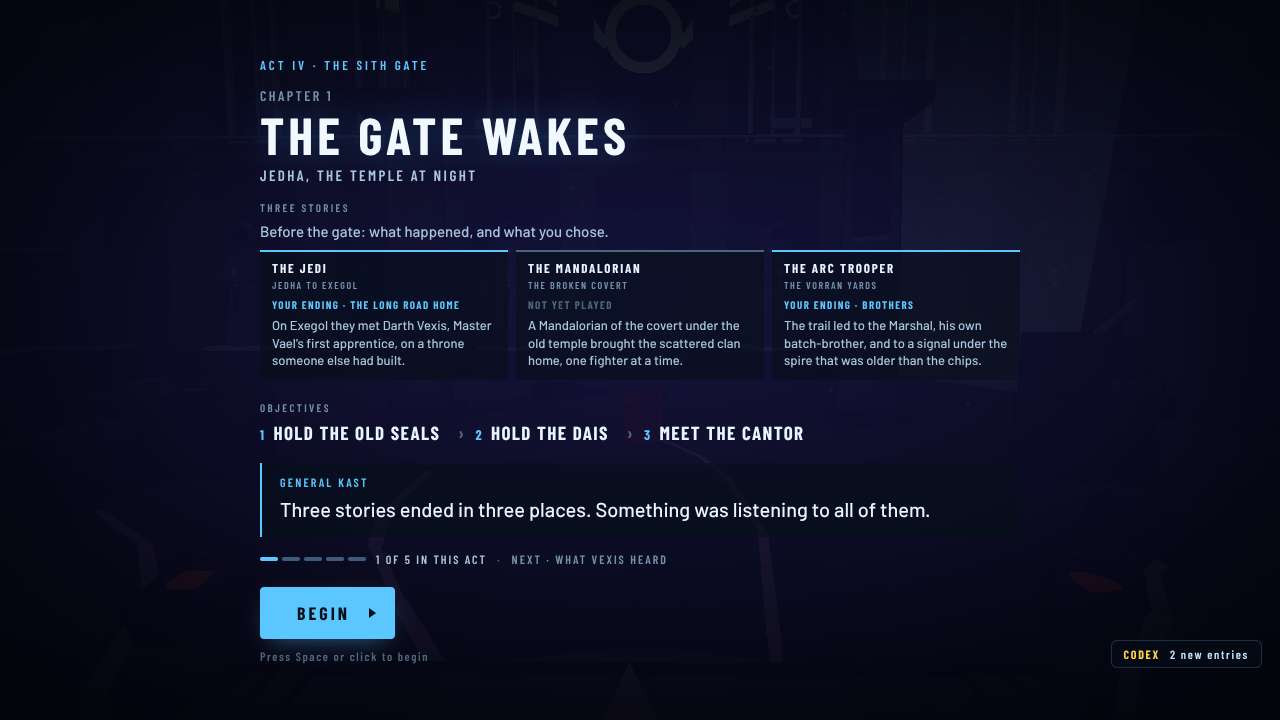
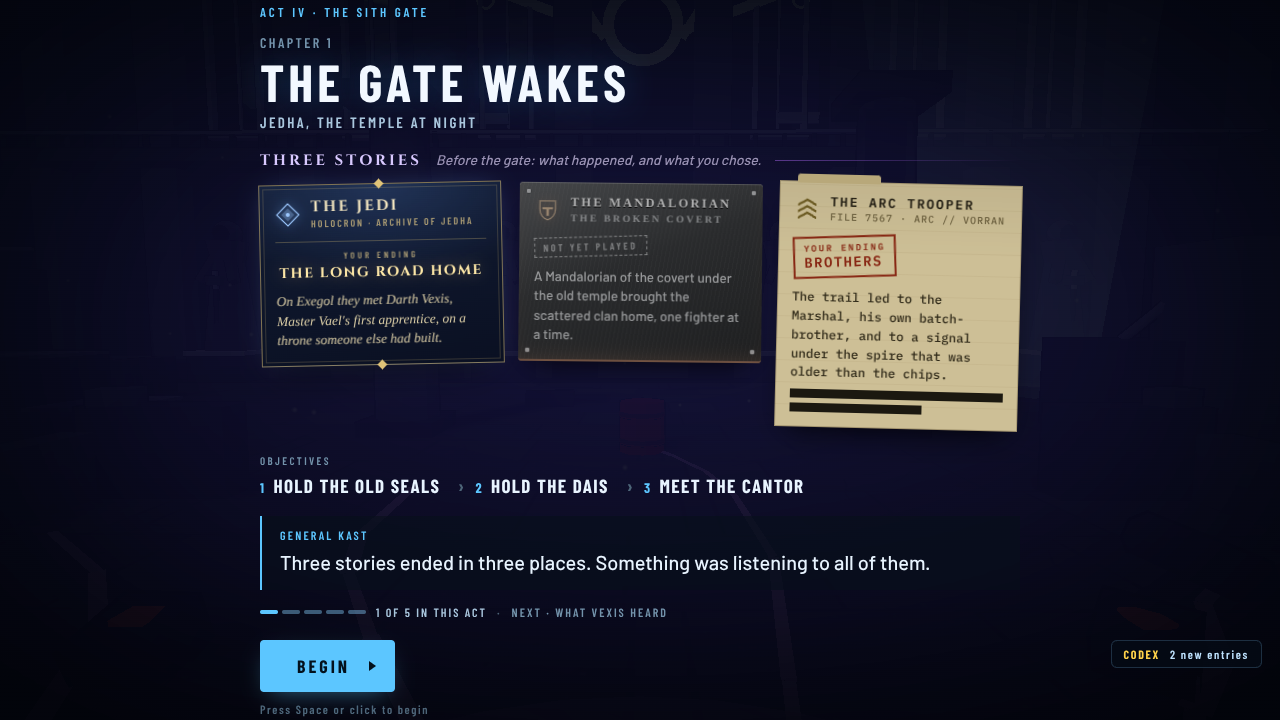
Act IV cards: hero keepsakes for the recap, a carved gate tablet for the epilogue [preview]
The recap shows each story as its hero's own object: a Jedi holocron,
a Mandalorian beskar plate and an ARC trooper dossier. The epilogue is a
carved tablet under the gate's ring, tinted by the player's lean.

Claude-Session: https://claude.ai/code/session_01GXE5t49waU1D9AjUNyCzTn

diff --git a/styles/gate.css b/styles/gate.css
@@ -1,0 +1,139 @@
+/* POWER TRIP © 2026 Caleb Zinabu. All rights reserved. See LICENSE. */
+/* ACT IV · THE SITH GATE: its recap and epilogue cards (game/gate.js gateRecapHtml, gateEpilogueHtml).
+   Not the menu's panels: each story is its own hero's keepsake, and the ending is carved in the gate's stone.
+     JEDI      a holocron page: Cinzel, warm gold ink on deep blue, a double hairline frame with diamond corners
+     MANDO     a beskar plate: brushed steel, rivets, Georgia small caps, an ember edge (the kitbench's forge family)
+     TROOPER   a field file: tan dossier paper, IBM Plex Mono, a file number, redaction bars and a rubber stamp
+     THE GATE  carved violet stone, Cinzel, the ring behind it shut or split by the choice */
+
+/* ---------------- the recap: three keepsakes on a table ---------------- */
+#chapcard .gx-recap{margin:20px 0 4px}
+#chapcard .gx-rk{display:flex;align-items:baseline;gap:14px;margin-bottom:14px}
+#chapcard .gx-rk span{font:700 15px/1 'Cinzel',Georgia,serif;letter-spacing:3px;color:#d9c9ff}
+#chapcard .gx-rk em{font:italic 500 14px/1.3 var(--font-body);color:#9a92b4}
+#chapcard .gx-rk::after{content:'';flex:1;height:1px;align-self:center;background:linear-gradient(90deg,rgba(180,107,255,.45),transparent)}
+#chapcard .gx-relics{display:grid;grid-template-columns:repeat(3,minmax(0,1fr));gap:16px;align-items:start}
+#chapcard .gx-relic{position:relative;padding:14px 15px 15px;min-height:150px;box-sizing:border-box;
+  animation:gxLay .5s cubic-bezier(.2,.8,.2,1) both;animation-delay:calc(var(--i) * 90ms)}
+@keyframes gxLay{from{opacity:0;transform:translateY(10px) rotate(var(--tilt,0deg)) scale(.97)}to{opacity:1;transform:rotate(var(--tilt,0deg))}}
+#chapcard .gx-relic header{display:flex;align-items:center;gap:10px}
+#chapcard .gx-relic header b{display:block}
+#chapcard .gx-relic header small{display:block;margin-top:3px}
+#chapcard .gx-g{display:inline-flex;flex:none;width:26px;height:26px}
+#chapcard .gx-g svg{width:100%;height:100%}
+#chapcard .gx-relic p{margin:10px 0 0}
+#chapcard .gx-end span{display:block}
+#chapcard .gx-end strong{display:block}
+
+/* JEDI · a holocron page */
+#chapcard .gx-jedi{--tilt:-1.2deg;color:#e9dcb6;
+  background:radial-gradient(120% 90% at 50% 0%,rgba(90,140,220,.22),transparent 60%),linear-gradient(170deg,#121c34,#0a1022);
+  border:1px solid rgba(225,196,120,.55);outline:1px solid rgba(225,196,120,.2);outline-offset:-5px;
+  box-shadow:0 14px 30px -14px rgba(0,0,0,.8),0 0 26px -10px rgba(120,170,255,.45)}
+#chapcard .gx-jedi::before,#chapcard .gx-jedi::after{content:'';position:absolute;width:7px;height:7px;background:#e1c478;transform:rotate(45deg);top:-4px;left:calc(50% - 4px)}
+#chapcard .gx-jedi::after{top:auto;bottom:-4px}
+#chapcard .gx-jedi .gx-g{color:#9cc8ff;filter:drop-shadow(0 0 6px rgba(120,180,255,.8))}
+#chapcard .gx-jedi header b{font:700 15px/1 'Cinzel',Georgia,serif;letter-spacing:2.4px;color:#f3e6c0}
+#chapcard .gx-jedi header small{font:600 10px/1.2 var(--font-ui);letter-spacing:2px;color:#a99a72}
+#chapcard .gx-jedi .gx-end{margin-top:12px;padding-top:9px;border-top:1px solid rgba(225,196,120,.28);text-align:center}
+#chapcard .gx-jedi .gx-end span{font:600 9px/1 var(--font-ui);letter-spacing:3px;color:#a99a72}
+#chapcard .gx-jedi .gx-end strong{margin-top:5px;font:700 14px/1.15 'Cinzel',Georgia,serif;letter-spacing:1.6px;color:#ffe9a8;text-shadow:0 0 14px rgba(255,210,120,.35)}
+#chapcard .gx-jedi p{font:italic 500 13.5px/1.45 Georgia,'Times New Roman',serif;color:#d8cba4}
+
+/* MANDO · a beskar plate */
+#chapcard .gx-mando{--tilt:.6deg;color:#d9dde2;border-radius:3px;
+  background:
+    radial-gradient(circle at 9px 9px,#c6ccd3 0 2px,#4a5058 2.5px,transparent 3.2px),radial-gradient(circle at calc(100% - 9px) 9px,#c6ccd3 0 2px,#4a5058 2.5px,transparent 3.2px),
+    radial-gradient(circle at 9px calc(100% - 9px),#c6ccd3 0 2px,#4a5058 2.5px,transparent 3.2px),radial-gradient(circle at calc(100% - 9px) calc(100% - 9px),#c6ccd3 0 2px,#4a5058 2.5px,transparent 3.2px),
+    repeating-linear-gradient(100deg,rgba(255,255,255,.035) 0 1px,transparent 1px 4px),
+    linear-gradient(160deg,#5d646d,#373c43 45%,#272b30);
+  border-bottom:2px solid #e0661e;box-shadow:inset 0 1px 0 rgba(255,255,255,.25),inset 0 -12px 20px -12px rgba(255,110,30,.35),0 14px 30px -14px rgba(0,0,0,.85)}
+#chapcard .gx-mando .gx-g{color:#ffb15a;filter:drop-shadow(0 0 5px rgba(255,120,40,.6))}
+#chapcard .gx-mando header b{font:700 12.5px/1 Georgia,'Times New Roman',serif;letter-spacing:2.2px;white-space:nowrap;color:#f1f3f5;text-shadow:0 1px 0 #000}
+#chapcard .gx-mando header small{font:600 10px/1.2 Georgia,serif;letter-spacing:2.4px;color:#b3bac2;text-transform:uppercase}
+#chapcard .gx-mando .gx-end{margin-top:12px;padding:7px 9px;background:rgba(10,12,14,.45);box-shadow:inset 0 1px 3px rgba(0,0,0,.6),0 1px 0 rgba(255,255,255,.08)}
+#chapcard .gx-mando .gx-end span{font:600 9px/1 Georgia,serif;letter-spacing:3px;color:#ffb15a}
+#chapcard .gx-mando .gx-end strong{margin-top:5px;font:700 14px/1.15 Georgia,serif;letter-spacing:2.6px;color:#fff;text-shadow:0 1px 0 #000}
+#chapcard .gx-mando p{font:500 13.5px/1.45 var(--font-body);color:#cfd4da}
+
+/* TROOPER · a field file */
+#chapcard .gx-trooper{--tilt:1.4deg;color:#2a2516;
+  background:linear-gradient(180deg,rgba(0,0,0,.06),transparent 30%),repeating-linear-gradient(0deg,rgba(80,60,20,.05) 0 1px,transparent 1px 22px),#cdbf96;
+  box-shadow:0 14px 30px -14px rgba(0,0,0,.9),inset 0 0 0 1px rgba(60,45,15,.25)}
+#chapcard .gx-trooper::before{content:'';position:absolute;top:-7px;left:18px;width:34%;height:9px;background:#b8a87a;border-radius:3px 3px 0 0}
+#chapcard .gx-trooper .gx-g{color:#6b5a22}
+#chapcard .gx-trooper header b{font:600 13px/1 'IBM Plex Mono',ui-monospace,monospace;letter-spacing:1.8px;color:#1c180e}
+#chapcard .gx-trooper header small{font:500 10px/1.2 'IBM Plex Mono',monospace;letter-spacing:1px;color:#6b5f3e}
+#chapcard .gx-trooper .gx-end{position:relative;margin-top:12px;display:inline-block;padding:5px 9px 6px;border:2px solid #a8321e;color:#a8321e;transform:rotate(-3deg);mix-blend-mode:multiply}
+#chapcard .gx-trooper .gx-end span{font:600 9px/1 'IBM Plex Mono',monospace;letter-spacing:2px}
+#chapcard .gx-trooper .gx-end strong{margin-top:3px;font:700 14px/1.1 'IBM Plex Mono',monospace;letter-spacing:1.4px}
+#chapcard .gx-trooper p{font:500 12.5px/1.5 'IBM Plex Mono',monospace;color:#2f2918}
+#chapcard .gx-redact{display:grid;gap:5px;margin-top:8px}
+#chapcard .gx-redact i{display:block;height:9px;background:#1b1810}
+#chapcard .gx-redact i:last-child{width:62%}
+
+/* a story not yet played: face down, faded, stamped */
+#chapcard .gx-relic.unplayed{filter:saturate(.35) brightness(.72);opacity:.86}
+#chapcard .gx-stamp{display:inline-block;margin-top:12px;padding:3px 8px;border:1.5px dashed currentColor;font:600 10px/1.2 var(--font-ui);letter-spacing:2.6px;opacity:.75;transform:rotate(-2deg)}
+#chapcard .gx-trooper .gx-stamp{font-family:'IBM Plex Mono',monospace;letter-spacing:1.4px}
+
+@media (max-width:640px){
+  #chapcard .gx-relics{grid-template-columns:1fr;gap:14px}
+  #chapcard .gx-relic{min-height:0;--tilt:0deg}
+  #chapcard .gx-rk{flex-wrap:wrap;gap:4px 10px}
+}
+
+/* ---------------- the epilogue: words carved in the gate ---------------- */
+#chapcard .gx-epi{position:relative;isolation:isolate;width:min(760px,100%);text-align:center;--gx:#b46bff;--glow:rgba(180,107,255,.5);animation:rise .5s var(--ease)}
+#chapcard .gx-epi.gx-lean-light{--glow:rgba(255,225,150,.55)}
+#chapcard .gx-epi.gx-lean-dark{--glow:rgba(255,60,50,.5)}
+/* the ring behind it: shut (sealed) or split with light (kept) */
+#chapcard .gx-ring{position:absolute;left:50%;top:-30px;width:420px;height:420px;margin-left:-210px;pointer-events:none;z-index:-1;opacity:.8}
+#chapcard .gx-ring i{position:absolute;inset:0;border-radius:50%;border:2px solid rgba(180,107,255,.35)}
+#chapcard .gx-ring i:nth-child(2){inset:34px;border:1px dashed rgba(180,107,255,.25);animation:gxTurn 60s linear infinite}
+#chapcard .gx-ring i:nth-child(3){inset:80px;border:0;background:radial-gradient(circle,rgba(20,10,30,.95) 55%,transparent 72%)}
+#chapcard .gx-kept .gx-ring i:nth-child(3){background:radial-gradient(circle,rgba(200,140,255,.42),rgba(90,40,140,.25) 45%,transparent 70%);animation:gxBreath 4s ease-in-out infinite}
+#chapcard .gx-sealed .gx-ring i:first-child{border-color:rgba(200,190,220,.3);box-shadow:inset 0 0 0 10px rgba(30,24,40,.6)}
+@keyframes gxTurn{to{transform:rotate(360deg)}}
+@keyframes gxBreath{50%{opacity:.6;transform:scale(.96)}}
+#chapcard .gx-kick{font:600 12px/1 var(--font-ui);letter-spacing:5px;color:#a99ac8}
+#chapcard .gx-title{margin:14px 0 0;font:700 54px/1.02 'Cinzel',Georgia,serif;letter-spacing:5px;color:#f4ecff;
+  text-shadow:0 2px 0 #0b0712,0 0 34px var(--glow)}
+#chapcard .gx-world{margin-top:10px;font:600 13px/1 var(--font-ui);letter-spacing:3.4px;color:#9a92b4}
+#chapcard .gx-world span{margin-left:12px;padding-left:12px;border-left:1px solid #4a4060;color:var(--gx)}
+/* the tablet: dark stone, chiselled in */
+#chapcard .gx-tablet{position:relative;margin:26px auto 0;max-width:640px;padding:24px 34px 18px;text-align:left;
+  background:radial-gradient(140% 100% at 50% 0%,rgba(140,100,200,.12),transparent 55%),linear-gradient(180deg,#1c1726,#120e1a);
+  clip-path:polygon(18px 0,calc(100% - 18px) 0,100% 18px,100% calc(100% - 18px),calc(100% - 18px) 100%,18px 100%,0 calc(100% - 18px),0 18px);
+  box-shadow:inset 0 2px 0 rgba(255,255,255,.05),inset 0 -2px 10px rgba(0,0,0,.6)}
+#chapcard .gx-tablet::before{content:'';position:absolute;inset:7px;pointer-events:none;border:1px solid rgba(180,107,255,.22);
+  clip-path:polygon(13px 0,calc(100% - 13px) 0,100% 13px,100% calc(100% - 13px),calc(100% - 13px) 100%,13px 100%,0 calc(100% - 13px),0 13px)}
+#chapcard .gx-l{display:flex;gap:14px;align-items:flex-start;margin:0;padding:9px 0;font:500 16.5px/1.5 var(--font-body);color:#d9d2e6;
+  text-shadow:0 -1px 0 rgba(0,0,0,.7);animation:gxCarve .6s ease both}
+#chapcard .gx-l + .gx-l{border-top:1px solid rgba(180,107,255,.1)}
+#chapcard .gx-l:nth-child(2){animation-delay:.15s}#chapcard .gx-l:nth-child(3){animation-delay:.3s}#chapcard .gx-l:nth-child(4){animation-delay:.45s}#chapcard .gx-l:nth-child(5){animation-delay:.6s}#chapcard .gx-l:nth-child(6){animation-delay:.75s}
+@keyframes gxCarve{from{opacity:0;filter:blur(3px)}to{opacity:1;filter:none}}
+#chapcard .gx-l .gx-g{width:22px;height:22px;margin-top:2px;color:#7d6aa6}
+#chapcard .gx-k-gate .gx-g{color:var(--gx)}
+#chapcard .gx-k-gate span{font:600 17.5px/1.5 Georgia,serif;color:#efe6ff}
+#chapcard .gx-k-jedi .gx-g{color:#9cc8ff}
+#chapcard .gx-k-mando .gx-g{color:#ffa040}
+#chapcard .gx-k-trooper .gx-g{color:#d6c48e}
+#chapcard .gx-l.own span{color:#fff}
+#chapcard .gx-l.own .gx-g{filter:drop-shadow(0 0 6px var(--glow))}
+#chapcard .gx-k-party span{font-style:italic;color:#bdb4d2}
+#chapcard .gx-sign{margin-top:10px;text-align:right;font:700 12px/1 'Cinzel',Georgia,serif;letter-spacing:3px;color:#8f80b0}
+#chapcard .gx-sign::before{content:'— '}
+#chapcard .gx-raid{display:flex;gap:10px;align-items:center;justify-content:center;max-width:600px;margin:20px auto 0;font:italic 500 14px/1.45 var(--font-body);color:#c06a7a}
+#chapcard .gx-raid .gx-g{width:20px;height:20px;color:#e0506a;animation:gxBreath 3s ease-in-out infinite}
+#chapcard .gx-epi .cc-btns{justify-content:center;margin-top:24px}
+#chapcard .gx-epi .cc-hint{text-align:center}
+#chapcard .gx-go{background:linear-gradient(180deg,#c99aff,#8a4ad2);color:#140a20;box-shadow:0 0 24px -6px var(--glow)}
+
+@media (max-width:640px){
+  #chapcard .gx-title{font-size:34px;letter-spacing:3px}
+  #chapcard .gx-ring{width:300px;height:300px;margin-left:-150px}
+  #chapcard .gx-tablet{padding:18px 18px 14px}
+  #chapcard .gx-l{font-size:15px;gap:10px}
+  #chapcard .gx-world span{display:block;margin:8px 0 0;padding:0;border:0}
+}

diff --git a/src/game/gate.js b/src/game/gate.js
@@ -90,14 +90,29 @@ function endingTitle(s){
   if (s === 'trooper') return (e.marshal === 'ended' ? TROOPER_EPILOGUE.title.ended : TROOPER_EPILOGUE.title.home) || '';
   return MANDO_EPILOGUE.title || '';
 }
+// each story laid out as its own hero's keepsake: the Jedi's a holocron page, the Mando's a beskar plate stamped at the
+// forge, the trooper's a field file (styles/gate.css). A story this player hasn't played lies face down, its first line only
+const GLYPH = {
+  jedi: '<svg viewBox="0 0 40 40" aria-hidden="true"><path d="M20 3 37 20 20 37 3 20Z" fill="none" stroke="currentColor" stroke-width="1.6"/><path d="M20 10 30 20 20 30 10 20Z" fill="currentColor" opacity=".28"/><circle cx="20" cy="20" r="3" fill="currentColor"/></svg>',
+  mando: '<svg viewBox="0 0 40 40" aria-hidden="true"><path d="M8 6h24v12c0 9-5 15-12 17C13 33 8 27 8 18Z" fill="none" stroke="currentColor" stroke-width="1.6"/><path d="M12 16h16v3h-6v10h-4V19h-6Z" fill="currentColor"/></svg>',
+  trooper: '<svg viewBox="0 0 40 40" aria-hidden="true"><path d="M6 12 20 4l14 8v4L20 8 6 16Z M6 22l14-8 14 8v4l-14-8-14 8Z M6 32l14-8 14 8v4l-14-8-14 8Z" fill="currentColor"/></svg>',
+  gate: '<svg viewBox="0 0 40 40" aria-hidden="true"><circle cx="20" cy="20" r="15" fill="none" stroke="currentColor" stroke-width="1.6"/><circle cx="20" cy="20" r="9" fill="none" stroke="currentColor" stroke-width="1" stroke-dasharray="2 3"/><circle cx="20" cy="20" r="2.4" fill="currentColor"/></svg>',
+  party: '<svg viewBox="0 0 40 40" aria-hidden="true"><circle cx="11" cy="20" r="4" fill="currentColor"/><circle cx="20" cy="20" r="4" fill="currentColor"/><circle cx="29" cy="20" r="4" fill="currentColor"/></svg>',
+  raid: '<svg viewBox="0 0 40 40" aria-hidden="true"><path d="M4 20c5-8 11-11 16-11s11 3 16 11c-5 8-11 11-16 11S9 28 4 20Z" fill="none" stroke="currentColor" stroke-width="1.6"/><path d="M20 13v14" stroke="currentColor" stroke-width="3.2" stroke-linecap="round"/></svg>',
+};
+const FILE_NO = { jedi: 'HOLOCRON · ARCHIVE OF JEDHA', mando: 'FORGED AT THE COVERT', trooper: 'FILE 7567 · ARC // VORRAN' };
 export function gateRecapHtml(){
   const R = GATE_RECAP;
-  return '<div class="cc-recap"><div class="cc-k">' + esc(R.title) + '</div><p class="cc-rl">' + esc(R.line) + '</p><div class="cc-rs">' +
-    STORIES.map(s => {
+  return '<div class="gx-recap"><div class="gx-rk"><span>' + esc(R.title) + '</span><em>' + esc(R.line) + '</em></div><div class="gx-relics">' +
+    STORIES.map((s, k) => {
       const st = R.stories[s], won = storyBeaten(s);
-      return '<div class="cc-r' + (won ? ' won' : '') + '"><b>' + esc(st.name) + '</b><i>' + esc(st.world) + '</i>' +
-        (won ? '<span class="cc-end">' + esc(R.yours) + ' · ' + esc(endingTitle(s)) + '</span>' : '<span class="cc-end un">' + esc(R.unplayed) + '</span>') +
-        '<p>' + esc(st.lines[won ? 1 : 0]) + '</p>' + '</div>';
+      return '<article class="gx-relic gx-' + s + (won ? ' won' : ' unplayed') + '" style="--i:' + k + '">' +
+        '<header><i class="gx-g">' + GLYPH[s] + '</i><div><b>' + esc(st.name) + '</b><small>' + esc(won ? FILE_NO[s] : st.world) + '</small></div></header>' +
+        (won ? '<div class="gx-end"><span>' + esc(R.yours) + '</span><strong>' + esc(endingTitle(s)) + '</strong></div>'
+             : '<div class="gx-stamp">' + esc(R.unplayed) + '</div>') +
+        '<p>' + esc(st.lines[won ? 1 : 0]) + '</p>' +
+        (s === 'trooper' && won ? '<div class="gx-redact" aria-hidden="true"><i></i><i></i></div>' : '') +
+        '</article>';
     }).join('') + '</div></div>';
 }
 
@@ -106,11 +121,28 @@ function epilogue(){
   const E = GATE_EPILOGUE, gate = answer('gate') || 'sealed', e = endings();
   const lean = leanOf(G.hero) || 'mid', hero = heroKey(E.hero, G.hero);
   const before = [];
-  if (e.jedi) before.push(E.before.jedi[(e.jedi.ilsa || 'spared') + '-' + (e.jedi.vexis || 'ended')]);
-  if (e.mando) before.push(E.before.mando);
-  if (e.trooper) before.push(E.before.trooper[e.trooper.marshal || 'home']);
+  if (e.jedi) before.push({ k: 'jedi', t: E.before.jedi[(e.jedi.ilsa || 'spared') + '-' + (e.jedi.vexis || 'ended')] });
+  if (e.mando) before.push({ k: 'mando', t: E.before.mando });
+  if (e.trooper) before.push({ k: 'trooper', t: E.before.trooper[e.trooper.marshal || 'home'] });
   const party = players.length > 1;
-  return { title: E.title[gate], world: E.world,
-    lines: [E.gate[gate], hero[lean] || hero.mid, ...before.filter(Boolean).slice(0, 2), party ? E.together : E.alone, E.raid] };
+  const parts = [{ k: 'gate', t: E.gate[gate] }, { k: G.hero, t: hero[lean] || hero.mid, own: true },
+    ...before.filter(b => b.t && b.k !== G.hero).slice(0, 2), ...before.filter(b => b.t && b.k === G.hero).slice(0, 1),
+    { k: 'party', t: party ? E.together : E.alone }];
+  return { title: E.title[gate], world: E.world, gate, lean, parts, raid: E.raid, lines: [...parts.map(p => p.t), E.raid] };
 }
 setGateEpilogue(epilogue);
+// THE EPILOGUE CARD: words carved into the gate's own stone, each line marked with whose it is (the gate, your hero, the
+// stories you finished, the party), the stone shut or split with light by the choice, and its glow by your own lean
+export function gateEpilogueHtml(choiceLabel){
+  const E = epilogue(), mine = (k) => k === G.hero;
+  return '<div class="gx-epi gx-' + E.gate + ' gx-lean-' + E.lean + ' hero-' + G.hero + '">' +
+    '<div class="gx-ring" aria-hidden="true"><i></i><i></i><i></i></div>' +
+    '<div class="gx-kick">ACT IV · EPILOGUE</div>' +
+    '<h1 class="gx-title">' + esc(E.title) + '</h1>' +
+    '<div class="gx-world">' + esc(E.world) + (choiceLabel ? '<span>' + esc(choiceLabel) + '</span>' : '') + '</div>' +
+    '<div class="gx-tablet">' + E.parts.map(p => '<p class="gx-l gx-k-' + p.k + (p.own || mine(p.k) ? ' own' : '') + '"><i class="gx-g">' + (GLYPH[p.k] || GLYPH.gate) + '</i><span>' + esc(p.t) + '</span></p>').join('') +
+      '<div class="gx-sign">GENERAL KAST</div></div>' +
+    '<p class="gx-raid"><i class="gx-g">' + GLYPH.raid + '</i><span>' + esc(E.raid) + '</span></p>' +
+    '<div class="cc-btns"><div class="btn primary go gx-go" data-go="1">CONTINUE</div></div>' +
+    '<div class="cc-hint">Enter or click to continue</div></div>';
+}

diff --git a/styles/menus.css b/styles/menus.css
@@ -874,18 +874,6 @@ html.desktop-app #overlay.st-pause #exitBtn{grid-column:span 3;order:10;margin-t
 #chapcard .cc-goals ol.many{flex-direction:column;gap:3px}
 #chapcard .cc-goals ol.many li{font-size:17px;margin-right:0}
 #chapcard .cc-goals ol.many li::after{content:none}
-/* ACT IV's first card: the three stories so far, each with the ending this player reached (game/gate.js gateRecapHtml) */
-#chapcard .cc-recap{margin:18px 0 0}
-#chapcard .cc-recap .cc-rl{margin:0 0 8px;font:500 15px/1.4 var(--font-body);color:var(--ink-soft)}
-#chapcard .cc-rs{display:grid;grid-template-columns:repeat(3,minmax(0,1fr));gap:8px}
-#chapcard .cc-r{padding:9px 12px 10px;background:var(--panel);border-top:2px solid var(--ink-faint)}
-#chapcard .cc-r.won{border-top-color:var(--cc)}
-#chapcard .cc-r b{display:block;font:700 13px/1.2 var(--font-ui);letter-spacing:1.8px;color:var(--ink)}
-#chapcard .cc-r i{display:block;font:600 10px/1.3 var(--font-ui);font-style:normal;letter-spacing:1.6px;color:var(--ink-dim);margin-top:2px}
-#chapcard .cc-r .cc-end{display:block;margin-top:6px;font:700 11px/1.3 var(--font-ui);letter-spacing:1.4px;color:var(--cc)}
-#chapcard .cc-r .cc-end.un{color:var(--ink-faint)}
-#chapcard .cc-r p{margin:5px 0 0;font:500 13px/1.35 var(--font-body);color:var(--ink-soft)}
-@media (max-width:560px){ #chapcard .cc-rs{grid-template-columns:1fr} }
 #chapcard .cc-scene{margin:18px 0 0;padding:12px 18px 14px;border-left:2px solid var(--cc);background:var(--panel)}
 #chapcard .cc-scene .cc-who{font-size:12px;letter-spacing:2.2px;color:var(--cc);margin-bottom:2px}
 #chapcard .cc-scene p.nar{margin:6px 0 0;font:500 20px/1.4 var(--font-body);color:var(--ink)}

diff --git a/src/game/campaign.js b/src/game/campaign.js
@@ -29,7 +29,7 @@ import { JEDI_ACT_TWO_WARN, JEDI_EPILOGUE_SCENE } from '../data/campaign-jedi.js
 import { resetSet } from './onset.js';
 import { startCalm, guestCalm, endCalm } from './aftermath.js';
 import { pad } from '../engine/gamepad.js';
-import { gateRecapHtml, veteranKit } from './gate.js';
+import { gateRecapHtml, gateEpilogueHtml, veteranKit } from './gate.js';
 import { PAD_GLYPHS } from '../data/gamepad.js';
 import { chapterMutators, mutatorById, NG_WORDS } from '../data/ngplus.js';
 
@@ -308,6 +308,10 @@ export function campaignWon(then){
 }
 function showEpilogue(then){
   const gate = storyHero() === 'gate';   // Act IV: one act, no pick (its words are this screen's own: game/gate.js)
+  if (gate){   // its own card, carved in the gate's stone (game/gate.js, styles/gate.css)
+    openCard(gateEpilogueHtml(choicesRecap()), () => { closeCard(true); then(); });
+    return void MUSIC.unlockSting();
+  }
   openCard('<div class="cc-inner hero-' + G.hero + '">' +
     '<div class="cc-act">' + (gate ? 'ACT IV · EPILOGUE' : 'EPILOGUE') + '</div><div class="cc-num">' + chapters().filter(c => !c.prologue).length + ' CHAPTERS' + (gate ? '' : ' · ' + esc(actTwoLabel(G.actTwo || 'lothal'))) +
     (choicesRecap() ? ' · ' + esc(choicesRecap()) : '') + '</div>' +

diff --git a/index.html b/index.html
@@ -21,6 +21,7 @@
 <link rel="stylesheet" href="/styles/boot.css">
 <link rel="stylesheet" href="/styles/hud.css">
 <link rel="stylesheet" href="/styles/menus.css">
+<link rel="stylesheet" href="/styles/gate.css">
 <link rel="stylesheet" href="/styles/store.css">
 <link rel="stylesheet" href="/styles/codex.css">
 <link rel="stylesheet" href="/styles/profile.css">
